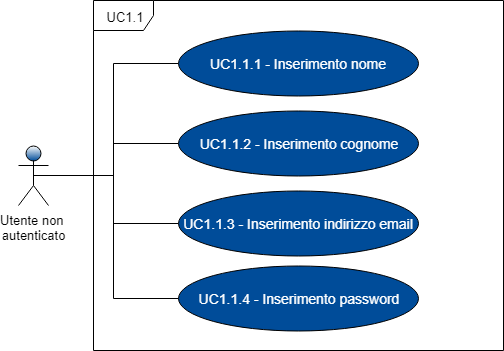
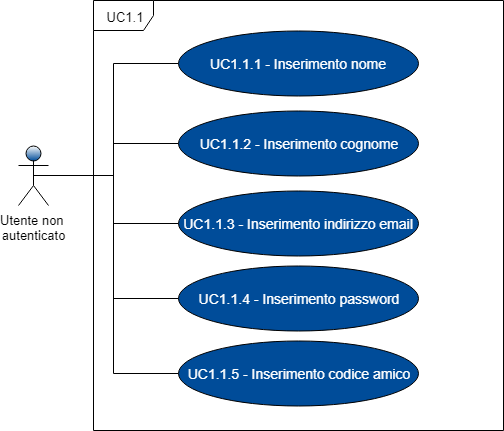
fix registrazione, inserimento codice amico e fix milestone unlock

diff --git a/RR/Esterni/Analisi_dei_requisiti/res/sections/UC/UC1-5-GuidaRegistrazione.tex b/RR/Esterni/Analisi_dei_requisiti/res/sections/UC/UC1-5-GuidaRegistrazione.tex
@@ -4,11 +4,6 @@
 	\caption{Schema generale: registrazione ed errori annessi}
 \end{figure}
 \subsubsection{UC1 - Registrazione}
-\begin{figure}
-	\includegraphics[width=10cm]{res/images/UC1Registrazione.png}
-	\centering
-	\caption{UC1 - Registrazione}
-\end{figure}
 \begin{itemize}
 	\item \textbf{Attori Primari}: utente non autenticato;
 	\item \textbf{Descrizione}: per effettuare il procedimento di registrazione, l'utente deve compilare tutti i campi necessari ovvero nome, cognome, email e password;
@@ -17,16 +12,32 @@
 			\item inserimento nome [UC1.1.1];
 			\item inserimento cognome [UC1.1.2];
 			\item inserimento indirizzo email [UC1.1.3];
-			\item inserimento password [UC1.1.4].
+			\item inserimento password [UC1.1.4];
+			\item inserimento codice amico [UC1.1.5].
 		\end{itemize}
 	\item \textbf{Precondizione}: l'applicazione rende disponibile i campi da compilare;
 	\item \textbf{Postcondizione}: l'utente viene registrato nell'applicazione;
+	\item \textbf{Inclusioni}:
+		\begin{itemize}
+			\item visualizzazione activity introduttiva [UC4].
+		\end{itemize}
 	\item \textbf{Estensioni}:
 		\begin{itemize}
 			\item visualizzazione errore email non valida [UC2];
-			\item visualizzazione errore password non conforme [UC3]. 
+			\item visualizzazione errore password non conforme [UC3];
+			\item visualizzazione errore campi vuoti [UC5]. 
 		\end{itemize} 
 \end{itemize}
+\begin{figure}[h]
+	\includegraphics[width=10cm]{res/images/UC1Registrazione.png}
+	\centering
+	\caption{UC1 - Registrazione}
+\end{figure}
+\begin{figure}
+	\includegraphics[width=9cm]{res/images/UC1-1Inserimento.png}
+	\centering
+	\caption{UC1.1 - Inserimento dati profilo utente}
+\end{figure}
 \subsubsection{UC1.1 - Inserimento dati profilo utente}
 \begin{itemize}
 	\item \textbf{Attori Primari}: utente non autenticato;
@@ -41,11 +52,6 @@
 	\item \textbf{Precondizione}: l'utente è entrato nell'activity\glosp di registrazione;
 	\item \textbf{Postcondizione}: l'utente ha compilato tutti i campi richiesti dalla registrazione.
 \end{itemize}
-\begin{figure}[h]
-	\includegraphics[width=9cm]{res/images/UC1-1Inserimento.png}
-	\centering
-	\caption{UC1.1 - Inserimento dati profilo utente}
-\end{figure}
 \newpage
 \subsubsection{UC1.1.1 - Inserimento nome}
 \begin{itemize}
@@ -79,6 +85,16 @@
 	\item \textbf{Precondizione}: l'applicazione ha reso disponibile il campo per l'inserimento della password;
 	\item \textbf{Postcondizione}: l'utente ha compilato il campo con una password.
 \end{itemize}
+
+\subsubsection{UC1.1.5 - Inserimento codice amico}
+\begin{itemize}
+	\item \textbf{Attori Primari}: utente non autenticato;
+	\item \textbf{Descrizione}: al fine di portare a termine il processo di registrazione l'utente può inserire un "codice amico", qualora ne fosse in possesso, campo ritenuto non obbligatorio;
+	\item \textbf{Scenario principale}: l'utente può compilare il campo relativo al codice amico se in possesso di un codice personale inviato da un altro utente che usufruisce dell'applicazione;	
+	\item \textbf{Precondizione}: l'applicazione ha reso disponibile il campo per l'inserimento del codice amico;
+	\item \textbf{Postcondizione}: l'utente ha compilato il campo con un codice amico.
+\end{itemize}
+
 \subsubsection{UC1.2 - Invio dati}
 \begin{itemize}
 	\item \textbf{Attori Primari}: utente non autenticato;
@@ -120,3 +136,11 @@
 	\item \textbf{Postcondizione}: il sistema fornisce all'utente la possibilità di visualizzare interamente la guida o di saltarla e raggiungere l'activity di login.
 \end{itemize}
 
+\subsubsection{UC5 - Visualizzazione errore campi vuoti}
+\begin{itemize}
+	\item \textbf{Attori Primari}: utente non autenticato;
+	\item \textbf{Descrizione}: l'utente visualizza un messaggio d'errore in quanto non sono stati riempiti i campi di inserimento email e password;
+	\item \textbf{Scenario principale}: l'utente non ancora autenticato tenta di accedere non inserendo un indirizzo email e password;	
+	\item \textbf{Precondizione}: l'utente non autenticato non inserisce nessun dato nei campi di inserimento;
+	\item \textbf{Postcondizione}: l'applicazione fa visualizzare un messaggio d'errore.
+\end{itemize}

diff --git a/RR/Esterni/Analisi_dei_requisiti/res/sections/UC/UC6-9-LoginLogout.tex b/RR/Esterni/Analisi_dei_requisiti/res/sections/UC/UC6-9-LoginLogout.tex
@@ -4,7 +4,7 @@
 	\caption{Schema generale: login ed errori annessi}
 \end{figure}
 \newpage
-\subsubsection{UC5 - Login}
+\subsubsection{UC6 - Login}
 \begin{itemize}
 	\item \textbf{Attori Primari}: utente non autenticato;
 	\item \textbf{Descrizione}: per effettuare il procedimento di autenticazione, l'utente deve compilare i campi necessari ovvero e-mail e password;
@@ -13,17 +13,17 @@
 	\item \textbf{Postcondizione}: dopo aver controllato che i campi sono stati compilati correttamente attraverso la piattaforma Movens\glo, l'utente viene autenticato nell'applicazione.
 	\item \textbf{Estensioni}:
 		\begin{itemize}
-			\item visualizzazione errore campi vuoti [UC6];
+			\item visualizzazione errore campi vuoti [UC5];
 			\item visualizzazione errore combinazione email e password errata [UC7].
 		\end{itemize}	
 \end{itemize}
 \begin{figure}[h]
-	\includegraphics[width=11cm]{res/images/UC5Login.png}
+	\includegraphics[width=11cm]{res/images/UC6Login.png}
 	\centering
-	\caption{UC5 - Login}
+	\caption{UC6 - Login}
 \end{figure}
 \newpage
-\subsubsection{UC5.1 - Compilazione campi per il login}
+\subsubsection{UC6.1 - Compilazione campi per il login}
 \begin{itemize}
 	\item \textbf{Attori Primari}: utente non autenticato;
 	\item \textbf{Descrizione}: l'utente compila i campi richiesti per l'autenticazione;
@@ -36,11 +36,11 @@
 	\item \textbf{Postcondizione}: l'utente ha compilato tutti i campi necessari all'autenticazione.	
 \end{itemize}
 \begin{figure}[h]
-	\includegraphics[width=11cm]{res/images/UC5-1Compilazione.png}
+	\includegraphics[width=11cm]{res/images/UC6-1Compilazione.png}
 	\centering
-	\caption{UC5.1 - Compilazione campi per il login}
+	\caption{UC6.1 - Compilazione campi per il login}
 \end{figure}
-\subsubsection{UC5.1.1 - Inserimento email}
+\subsubsection{UC6.1.1 - Inserimento email}
 \begin{itemize}
 	\item \textbf{Attori Primari}: utente non autenticato;
 	\item \textbf{Descrizione}: al fine di portare a termine il processo di autenticazione l'utente deve inserire l'indirizzo email associato all'account, campo ritenuto obbligatorio;
@@ -49,7 +49,7 @@
 	\item \textbf{Postcondizione}: l'utente ha compilato il campo con l'indirizzo email associato al proprio account.
 \end{itemize}
 
-\subsubsection{UC5.1.2 - Inserimento password}
+\subsubsection{UC6.1.2 - Inserimento password}
 \begin{itemize}
 	\item \textbf{Attori Primari}: utente non autenticato;
 	\item \textbf{Descrizione}: al fine di portare a termine il processo di autenticazione l'utente deve inserire la password associata al proprio account, campo ritenuto obbligatorio;
@@ -58,7 +58,7 @@
 	\item \textbf{Postcondizione}: l'utente ha compilato il campo con la password associata al proprio account.
 \end{itemize}
 
-\subsubsection{UC5.2 - Invio dati}
+\subsubsection{UC6.2 - Invio dati}
 \begin{itemize}
 	\item \textbf{Attori Primari}: utente non autenticato;
 	\item \textbf{Descrizione}: l'utente preme il pulsante per la conferma e l'invio dei dati; se email e password risulteranno corrette l'utente verrà autenticato;
@@ -67,14 +67,6 @@
 	\item \textbf{Postcondizione}: l'utente viene autenticato e rimandato all'activity\glosp per la gestione dei veicoli.
 \end{itemize}
 
-\subsubsection{UC6 - Visualizzazione errore campi vuoti}
-\begin{itemize}
-	\item \textbf{Attori Primari}: utente non autenticato;
-	\item \textbf{Descrizione}: l'utente visualizza un messaggio d'errore in quanto non sono stati riempiti i campi di inserimento email e password;
-	\item \textbf{Scenario principale}: l'utente non ancora autenticato tenta di accedere non inserendo un indirizzo email e password;	
-	\item \textbf{Precondizione}: l'utente non autenticato non inserisce nessun dato nei campi di inserimento;
-	\item \textbf{Postcondizione}: l'applicazione fa visualizzare un messaggio d'errore.
-\end{itemize}
 \subsubsection{UC7 - Visualizzazione errore combinazione email e password errata}
 \begin{itemize}
 	\item \textbf{Attori Primari}: utente non autenticato;

diff --git a/RR/Esterni/Analisi_dei_requisiti/res/sections/UC/UC20-21-Milestone-unlock.tex b/RR/Esterni/Analisi_dei_requisiti/res/sections/UC/UC20-21-Milestone-unlock.tex
@@ -1,9 +1,12 @@
-
-
+\begin{figure}[h]
+	\includegraphics[width=10cm]{res/images/uc20-21.png}
+	\centering
+	\caption{Schema generale: milestone unlock}
+\end{figure}
 \subsubsection{UC20 - Milestone Unlock}
 \begin{itemize}
 	\item \textbf{Attori Primari}: utente autenticato;
-	\item \textbf{Descrizione}: L'utente generico può visualizzare la tabella Milestone Unlock\glo, che illustra per ogni livello esperienza il corrispettivo premio che si può ottenere;	
+	\item \textbf{Descrizione}: l'utente generico può visualizzare la tabella Milestone Unlock\glo, che illustra per ogni livello esperienza il corrispettivo premio che si può ottenere;	
 	\item \textbf{Scenario principale}: l'utente ha premuto il pulsante per la visualizzazione della tabella Milestone Unlock, e la sta visualizzando.
 	I premi presenti nella tabella possono essere del seguente tipo:
 	\begin{itemize}
@@ -12,23 +15,19 @@
 		\item beni virtuali.
 	\end{itemize}
 	I premi partono dal quinto livello esperienza.
-	Ogni 10 livelli esperienza, il valore del premio è aumentato del 10\%.
+	Ogni 10 livelli esperienza, il valore del premio è aumentato del 10\%;
 	\item \textbf{Precondizione}: l'utente autenticato ha premuto il pulsante della Milestone Unlock, dal menu dell'applicazione;
 	\item \textbf{Postcondizione}: l'utente autenticato sta visualizzando la tabella Milestone Unlock;
 	\item \textbf{Estensioni}:
-			l'utente autenticato ha raggiunto un nuovo livello esperienza e ritira il premio corrispondente al livello raggiunto tramite la tabella Milestone Unlock [UC21].
+		\begin{itemize}
+			\item l'utente autenticato ha raggiunto un nuovo livello esperienza e ritira il premio corrispondente al livello raggiunto tramite la tabella Milestone Unlock [UC21].
+		\end{itemize}
 \end{itemize}
 \subsubsection{UC21 - Ritiro premio per raggiungimento nuovo livello esperienza}
 \begin{itemize}
 	\item \textbf{Attori Primari}: utente autenticato;
-	\item \textbf{Descrizione}: L'utente autenticato ha raggiunto un nuovo livello esperienza presente nella tabella Milestone Unlock\glosp e può ritirare il relativo premio;	
-	\item \textbf{Scenario principale}: l'utente autenticato ha raggiunto un nuovo livello esperienza e gli si presenta la tabella di Milestone Unlock, dalla quale può ritirare il corrispondente premio. Il premio appena sbloccato sarà illuminato da un'aura gialla.
-	\item \textbf{Precondizione}: l'utente autenticato ha raggiunto un nuovo livello esperienza, superiore al 5.
+	\item \textbf{Descrizione}: l'utente autenticato ha raggiunto un nuovo livello esperienza presente nella tabella Milestone Unlock\glosp e può ritirare il relativo premio;	
+	\item \textbf{Scenario principale}: l'utente autenticato ha raggiunto un nuovo livello esperienza e gli si presenta la tabella di Milestone Unlock, dalla quale può ritirare il corrispondente premio. Il premio appena sbloccato sarà illuminato da un'aura gialla;
+	\item \textbf{Precondizione}: l'utente autenticato ha raggiunto un nuovo livello esperienza, superiore al 5;
 	\item \textbf{Postcondizione}: l'utente autenticato può ritirare il premio corrispondete al livello raggiunto, tramite la tabella Milestone Unlock.
 \end{itemize}
-
-\begin{figure}[h]
-	\includegraphics[width=15cm]{res/images/uc20-21.png}
-	\centering
-	\caption{Schema generale: Milestone Unlock}
-\end{figure}

diff --git a/RR/Esterni/Analisi_dei_requisiti/res/sections/UC/UC-CodiceAmico.tex b/RR/Esterni/Analisi_dei_requisiti/res/sections/UC/UC-CodiceAmico.tex
@@ -1,0 +1,13 @@
+\begin{figure}[h]
+	%\includegraphics[width=8cm]{res/images/Codiceamico.png}
+	\centering
+	\caption{Schema generale: codice invito amici}
+\end{figure}
+\subsubsection{UC - Codice invito amici}
+\begin{itemize}
+	\item \textbf{Attori Primari}: utente autenticato;
+	\item \textbf{Descrizione}: agli utenti autenticati è reso disponibile un codice personale (composto da lettere e numeri) che può essere inviato ad un amico, non ancora registrato, per invitarlo ad usufruire dell'applicazione semplicemente inserendo questo "codice amico" in fase di registrazione nell'apposito spazio facendo guadagnare così punti bonus al proprietario del codice;
+	\item \textbf{Scenario principale}: l'utente visualizza, nella voce \textit{Gestione Profilo}, il codice personale da inviare ad amici;
+	\item \textbf{Precondizione}: l'utente autenticato ha selezionato la voce \textit{Gestione Profilo} dal menu dell'applicazione;
+	\item \textbf{Post-condizione}: l'utente autenticato ha visualizzato il suo codice personale. 
+\end{itemize} 

diff --git a/RR/Esterni/Analisi_dei_requisiti/res/sections/casi_duso.tex b/RR/Esterni/Analisi_dei_requisiti/res/sections/casi_duso.tex
@@ -20,12 +20,13 @@ In questa sezione vi sono elencati tutti i casi d'uso individuati. Ogni caso d'u
 \subsubsection*{Operazioni utenti}
 Di seguito sono riportati tutti i casi d'uso che coinvolgono come attore primario l'utente generico, l'utente non autenticato, l'utente autenticato.
 \newpage
-\input{res/sections/UC/UC1-4-GuidaRegistrazione.tex}
-\input{res/sections/UC/UC5-9-LoginLogout.tex}
+\input{res/sections/UC/UC1-5-GuidaRegistrazione.tex}
+\input{res/sections/UC/UC6-9-LoginLogout.tex}
 \input{res/sections/UC/UC10-Gestione-veicoli.tex}
 \input{res/sections/UC/UC11-Gestione-prenotazione.tex}
 \input{res/sections/UC/UC12-Effettua-prenotazione.tex}
 \input{res/sections/UC/UC13-StoricoPrenotazioni.tex}
 \input{res/sections/UC/UC14-GestioneProfilo.tex}
-\input{res/sections/UC/UC17-18-Milestone-unlock.tex}
+\input{res/sections/UC/UC17-18-ProgressBar.tex}
 \input{res/sections/UC/UC20-21-Milestone-unlock.tex}
+\input{res/sections/UC/UC-CodiceAmico.tex}
